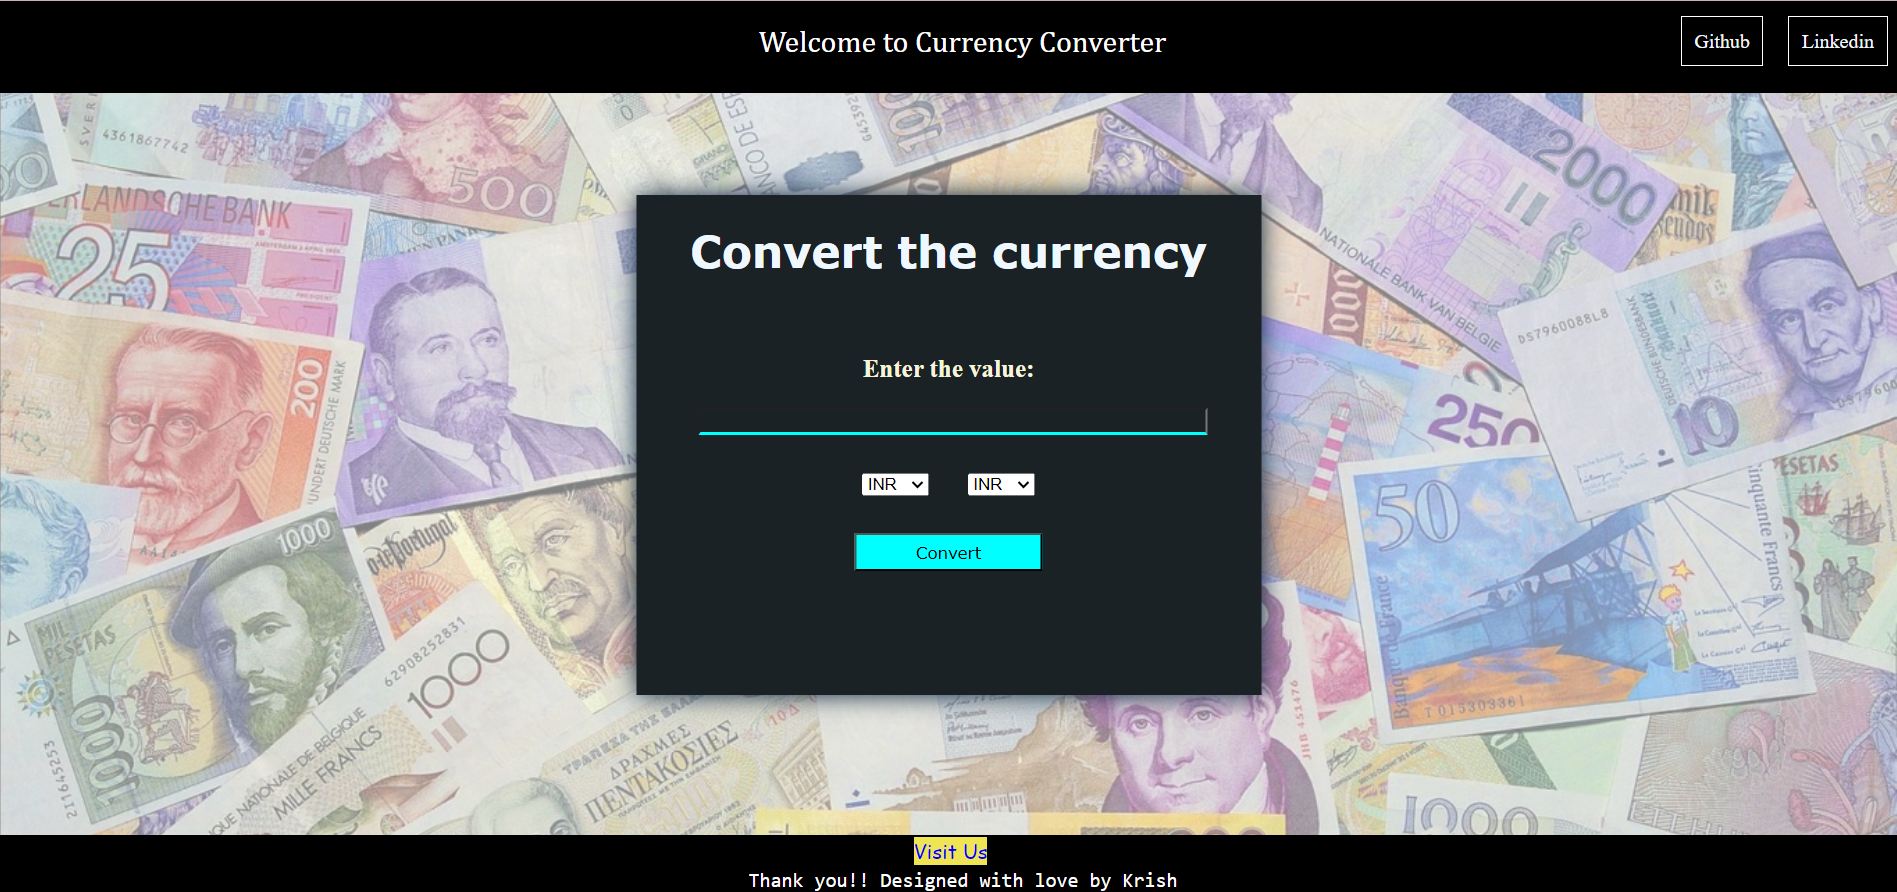
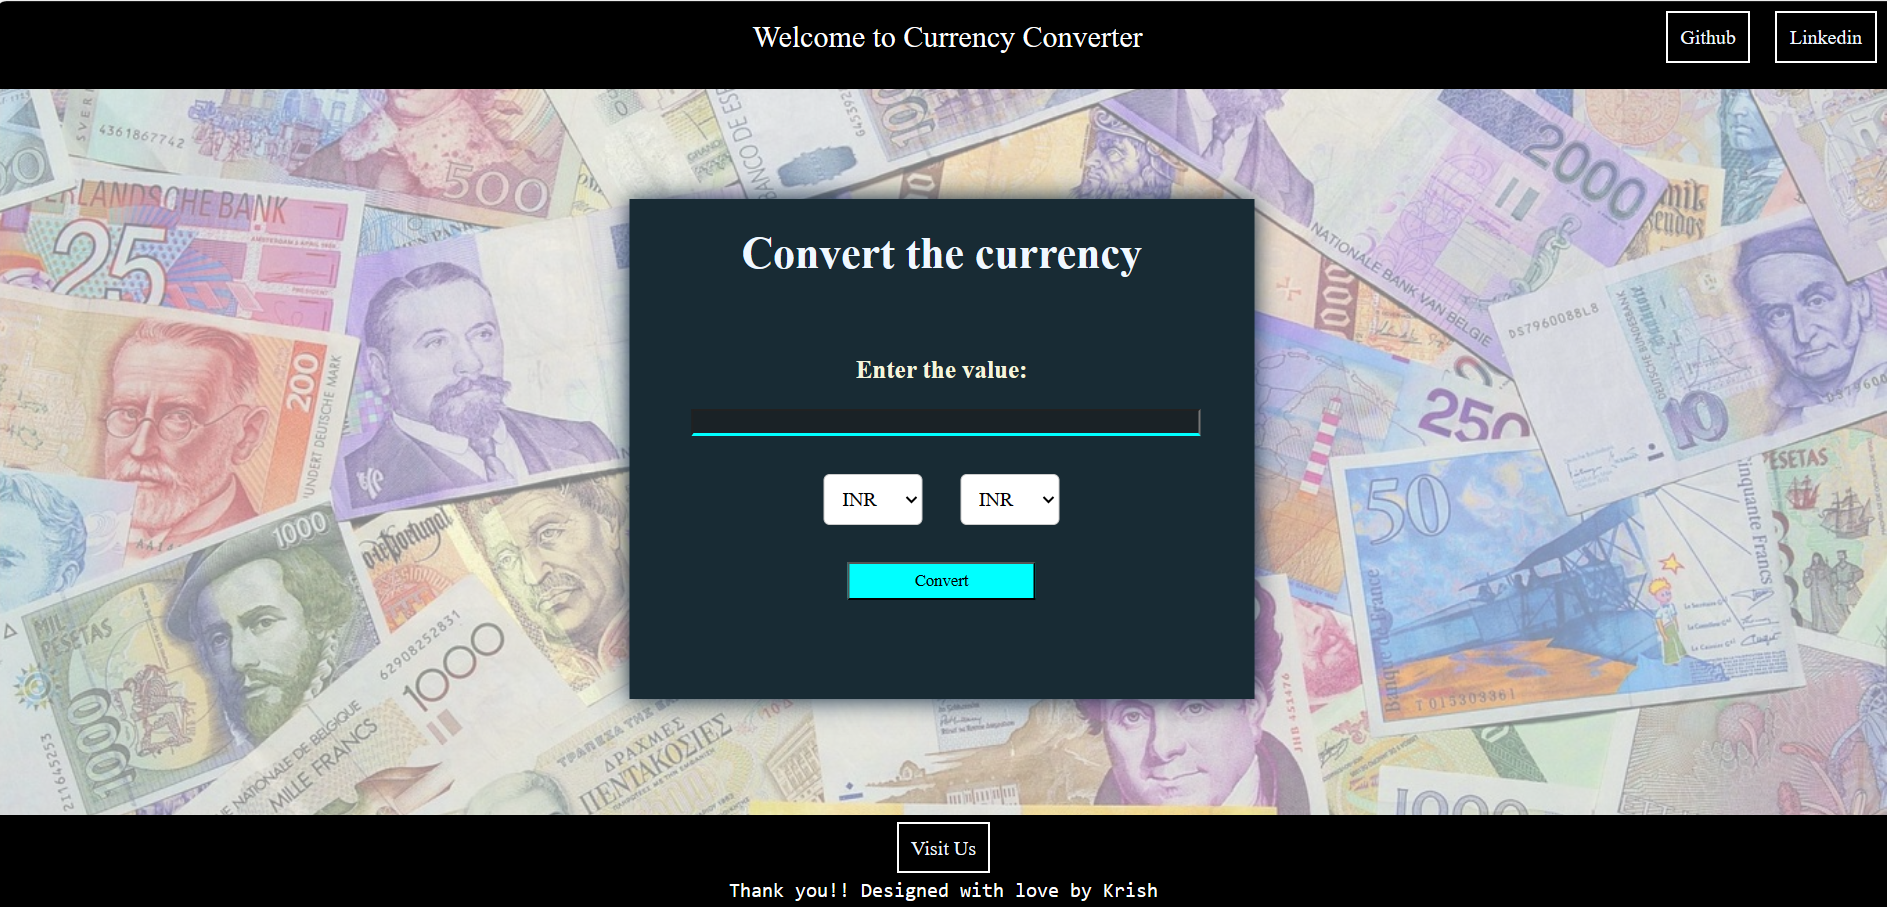
Changes

Changed region(s): [[0.0, 0.0, 1.0, 1.0], [0.3746, 0.0303, 0.6243, 0.0605], [0.437, 0.3935, 0.5619, 0.4238]]

diff --git a/index.html b/index.html
@@ -40,7 +40,7 @@
         .sm {
             text-decoration: none;
             color: aliceblue;
-            border: white solid 1px;
+            border: white solid 2px;
             padding: 10px;
             margin: 10px;
         }
@@ -51,7 +51,7 @@
         }
         
         #nav1 {
-            font-family: Cambria, Cochin, Georgia, Times, 'Times New Roman', serif;
+            font-family: Kanit;
             font-size: x-large;
             color: white;
             display: inline-block;
@@ -62,7 +62,7 @@
         #Box {
             box-shadow: 0 0 20px rgb(9, 34, 59);
             align-items: center;
-            background-color: #1A2226;
+            background-color: #182b34;
             height: 400px;
             width: 500px;
             position: absolute;
@@ -72,12 +72,15 @@
             margin: auto;
         }
         
-        
+        #Box:hover
+        {
+            background-color: #1A2226
+        }
         #heading
         {
             font-size: 35px;
             justify-content: center;
-            font-family: Verdana, Geneva, Tahoma, sans-serif;
+            font-family: Kanit;
             color: aliceblue;
             display:flex;
             align-items: center;
@@ -98,7 +101,7 @@
         #h2
         {
             font-size: 20px;
-            font-family:Roboto Condensed;
+            font-family:Kanit;
             display: flex;
             color:beige;
             align-items: center;
@@ -114,6 +117,9 @@
         #incurrency ,#outcurrency
         {
             margin: 15px;
+            background-color: rgb(255, 255, 255);
+            font-family: Kanit;
+
         }
         #input
         {
@@ -132,12 +138,12 @@
         #foot
         {
             width: 100%;
-            height: 50px; 
+            height: 60px; 
             background-color: rgb(0, 0, 0);
             border: 2px solid rgb(0, 0, 0);
             text-align: center; 
             position:absolute;
-            padding:0;
+            padding-top: 1%;
             bottom: 0;
         }
         #foot1
@@ -145,53 +151,60 @@
             font-family: monospace;
             font-size: large;
             color: white; 
-            display: inline-block;
             position: absolute;
-            top: 50%;
-            left: 50%;
-            transform: translate(-50%, -50%);
-            margin: 10px;
+            width:25%;
+            margin-left: 37.5%;
+            
         }
         #foot1:hover
         {
-            font-family: Cambria, Cochin, Georgia, Times, 'Times New Roman', serif;
+            font-family: Kanit;
         }
         #visit
         {
             text-decoration: none;
-            background-color: rgb(239, 229, 84);
-            height: 13px;
-            width: 60px;
-            font-family: cursive;
-            text-decoration-color: black;
-            padding: auto;
-            
+            color: aliceblue;
+            border: white solid 2px;
+            padding: 10px;
         }
         #visit:hover
         {
-            background-color:rgb(124, 138, 190) ;
-            color: aliceblue;
+            background-color:rgb(255, 255, 255) ;
+            color: rgb(0, 0, 0);
         }
         #f
         {
             width: 30%;
             margin-left: 35%;
             height: 30px;
-            font-family:Verdana, Geneva, Tahoma, sans-serif;
+            font-family:Kanit;
             background-color: aqua;
         }
         #f:hover
         {
-            font-family: 'Franklin Gothic Medium', 'Arial Narrow', Arial, sans-serif;
+            font-family: 'Segoe UI', Tahoma, Geneva, Verdana, sans-serif;
             background-color: rgb(0, 197, 197);
+            box-shadow: 0px 0px 5px rgb(25, 157, 166) ;
         }
         #demo
         {
-            font-family:roboto system-ui, -apple-system, BlinkMacSystemFont, 'Segoe UI', Roboto, Oxygen, Ubuntu, Cantarell, 'Open Sans', 'Helvetica Neue', sans-serif;
+            font-family:Kanit;
             color:white;
             display: flex;
             justify-content: center;
            
+        }
+        select {
+            padding: 10px;
+            font-size: 16px;
+            border: 1px solid #ccc;
+            border-radius: 5px;
+            margin-right: 10px;
+            cursor: pointer;
+        }
+        option[selected] {
+            background-color: #007BFF;
+            color: #fff;
         }
     </style>
 </head>
